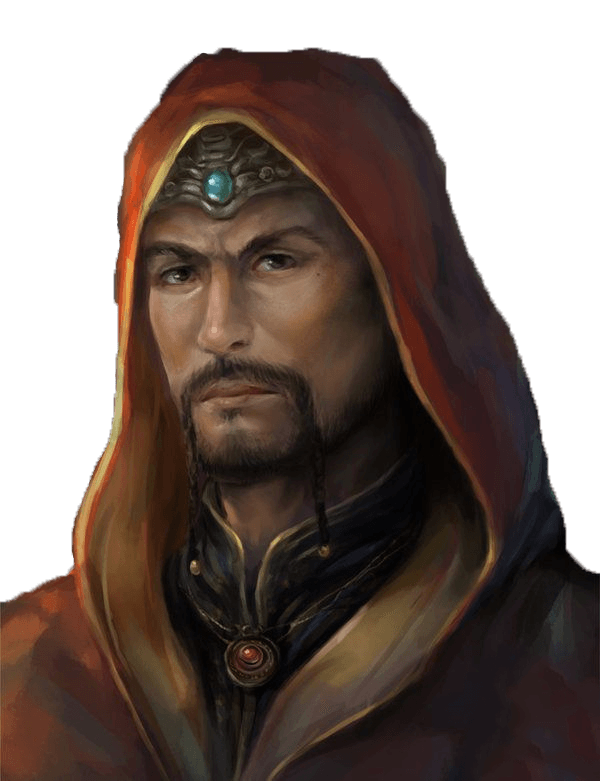
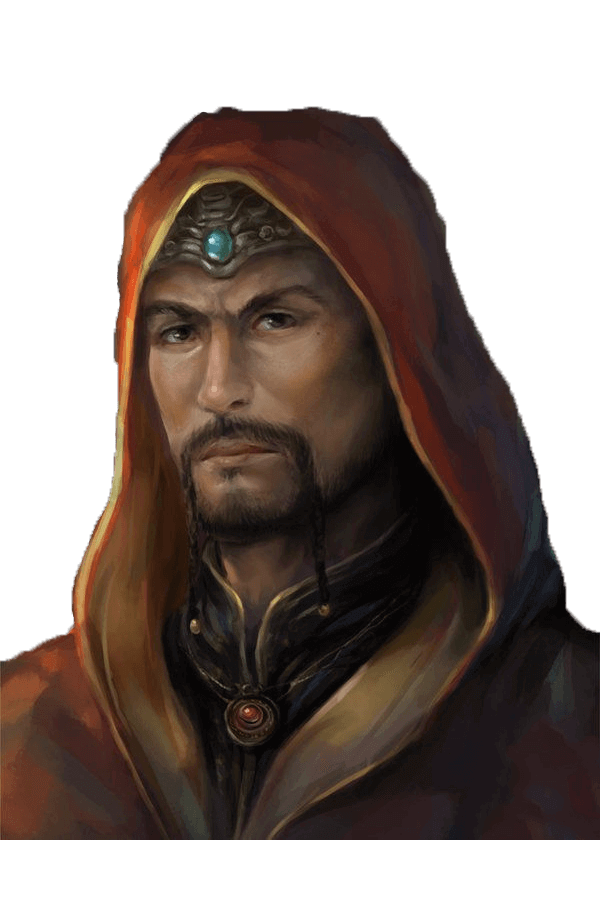
update photos

diff --git a/war4crown/index.html b/war4crown/index.html
@@ -87,8 +87,8 @@
     <h3>Yokota AB Pathfinder Group</h3>
     <div class="herodiv2">
       <figure id="slideshow">
-        <img src="images/eutropia-stavian.png" alt="eutropia-stavian" sizes="100vw">
-        <img src="images/maxillar-pythareus.png" alt="maxillar-pythareus" sizes="100vw">
+        <img src="images/eutropia-legacy.png" alt="eutropia-stavian" sizes="100vw">
+        <img src="images/maxillar-pythareus2.png" alt="maxillar-pythareus" sizes="100vw">
         <img src="images/tanasha-starborne.png" alt="tanasha-starborne" sizes="100vw">
         <img src="images/krekari-nazezi.png" alt="krekari-nazezi" sizes="100vw">
         <img src="images/caliphalig-vort.png" alt="caliphalig-vort" sizes="100vw">
